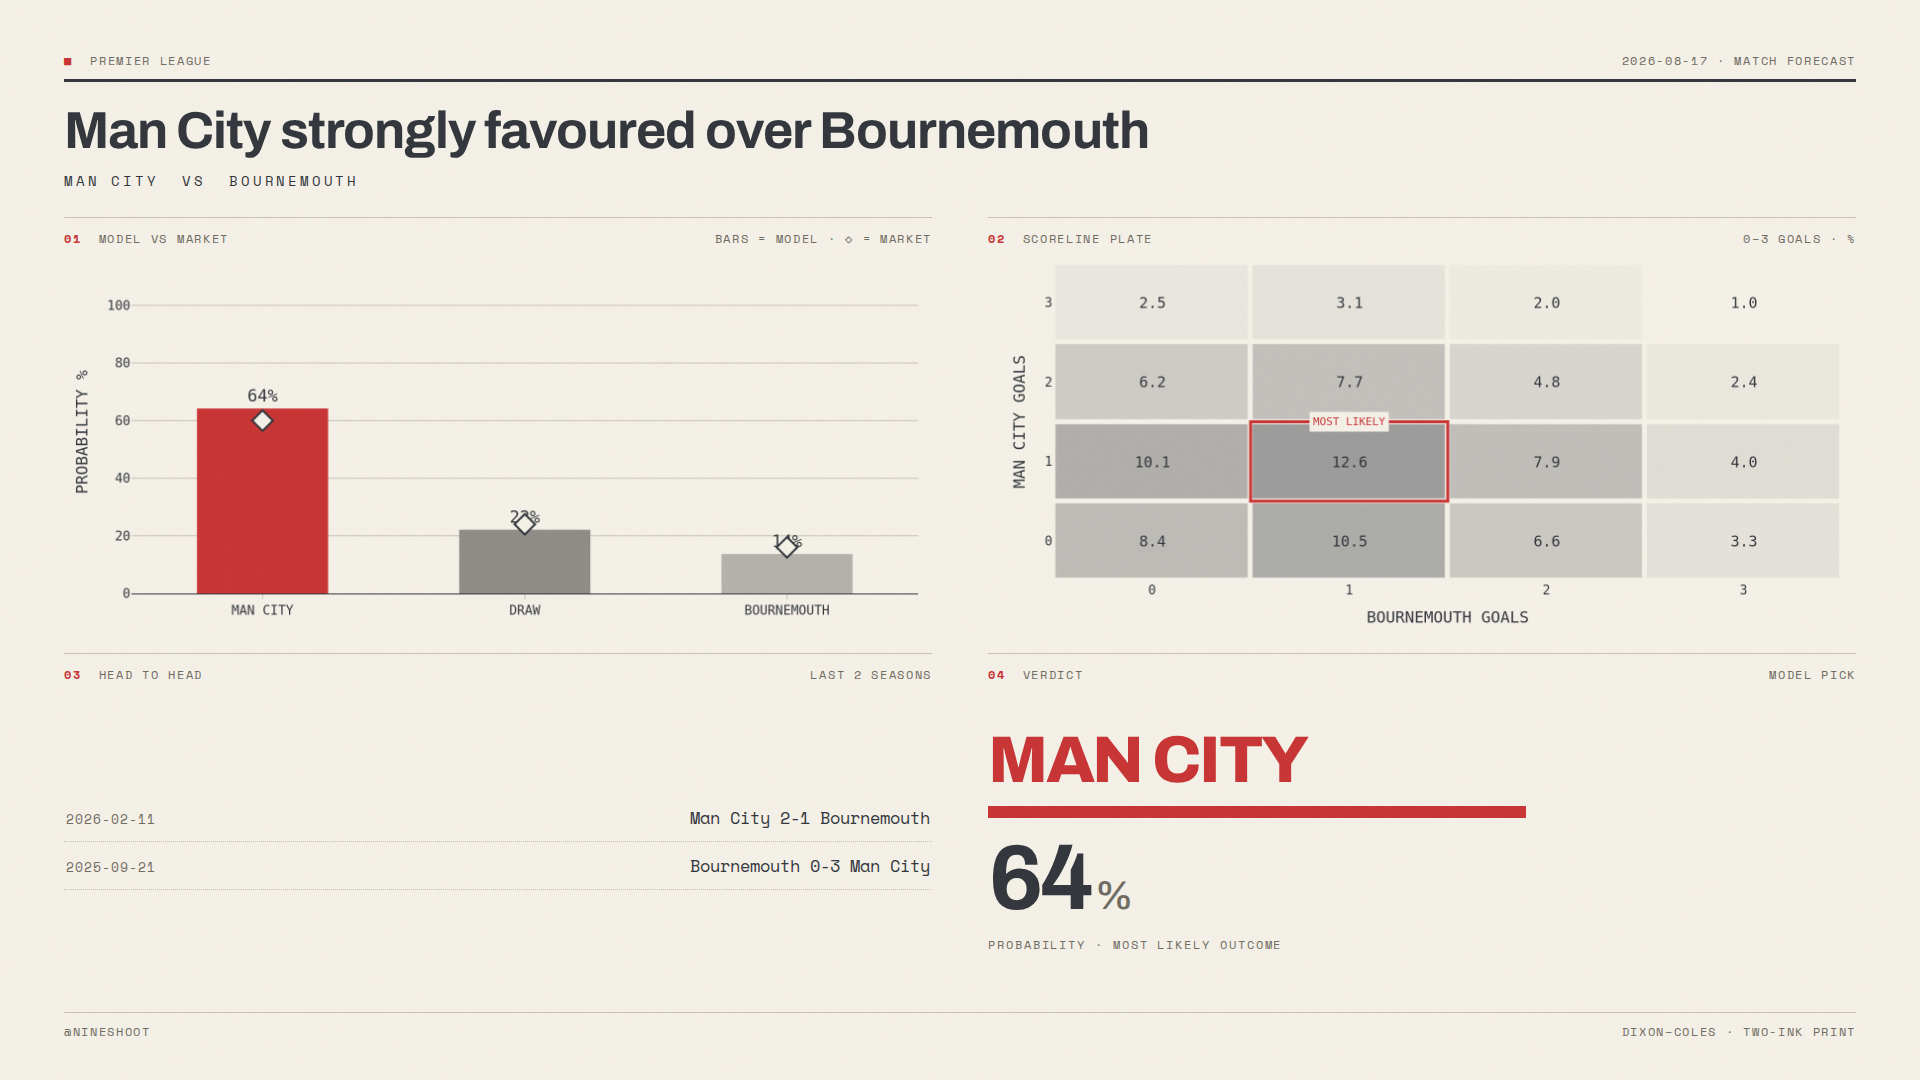
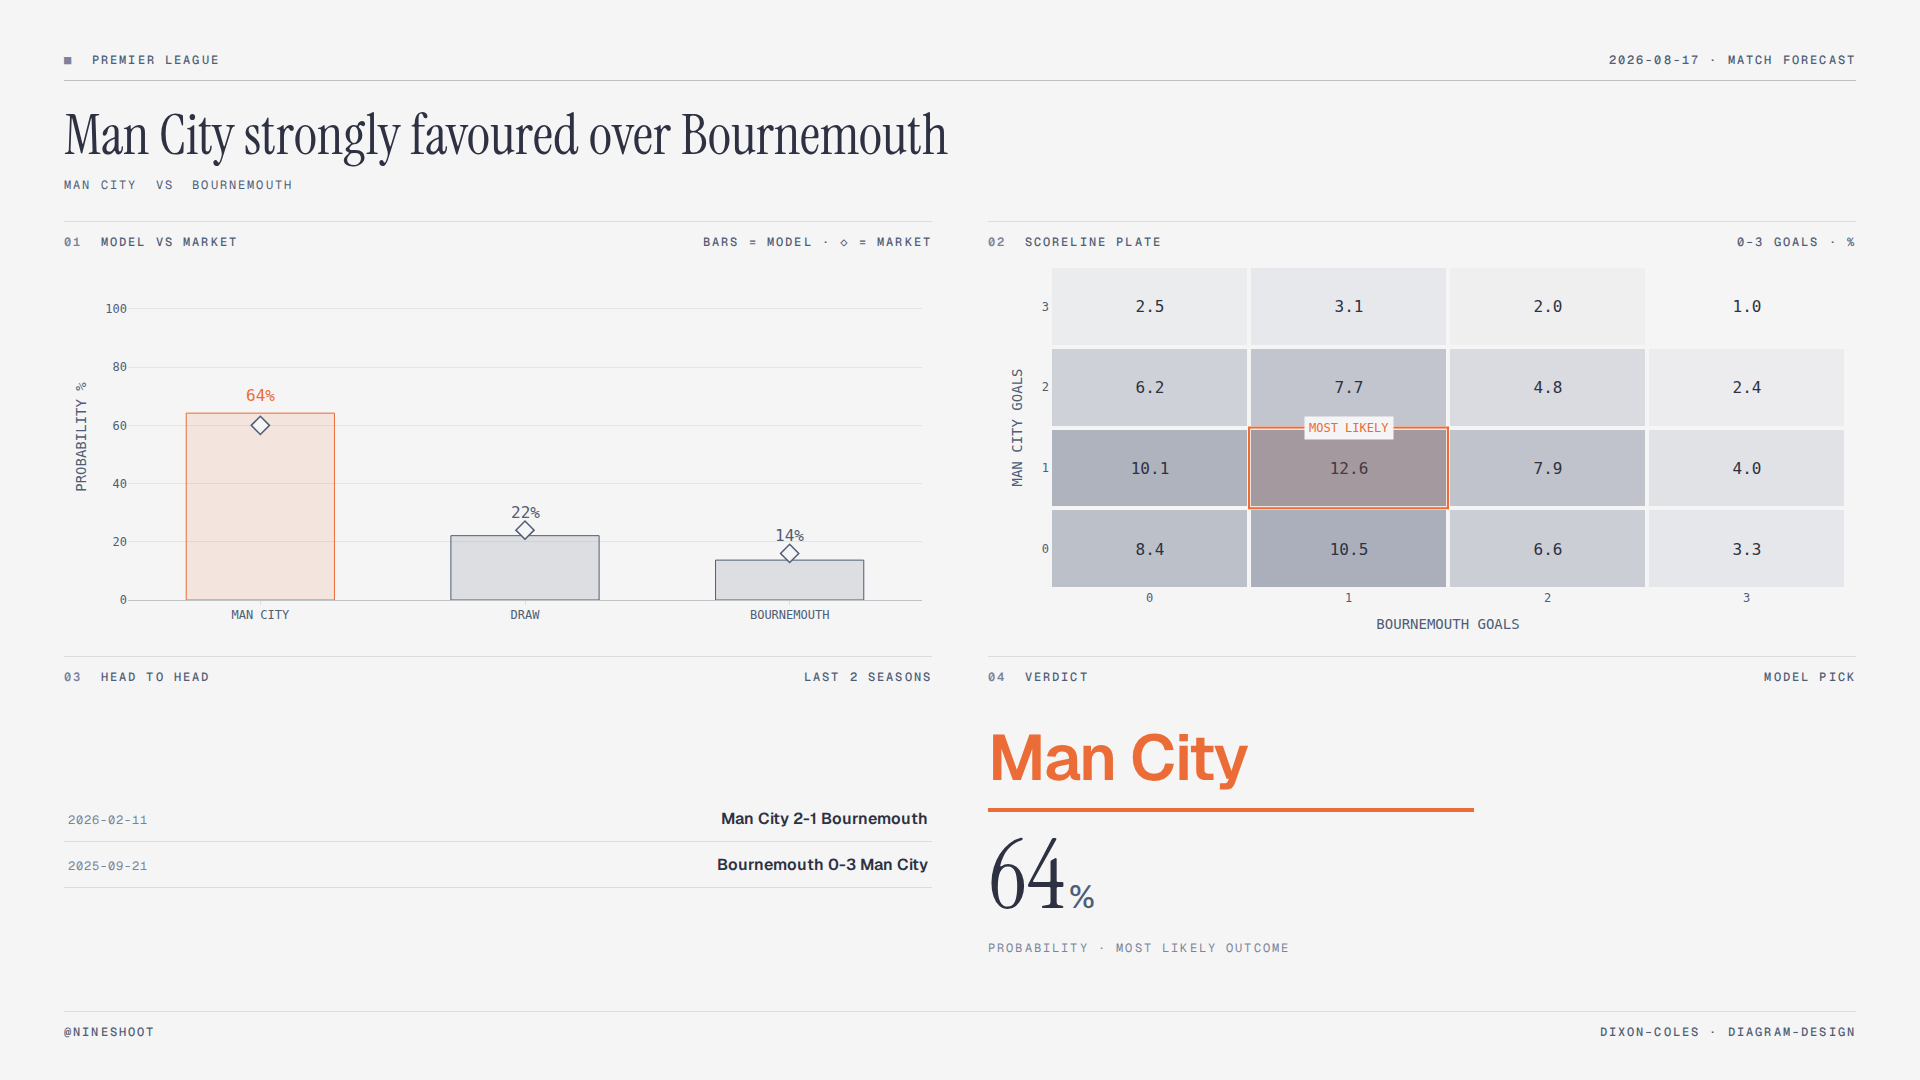
README: regenerate previews for the diagram-design skin
The preview images still showed the mono-color print skin, which no
longer matches what the code renders. Regenerates both from the current
`python -m src.viz`, and updates the prose, the pipeline diagram, and the
file tree to name diagram-design and the in-page plotly.js render path.

The new files are also 24x and 38x smaller (2.24MB -> 92KB, 2.19MB ->
58KB). The old skin's paper-grain overlay was random noise across all two
million pixels, which is exactly what PNG cannot compress; the skill's
default is clean paper. The same applies to every sheet CI commits each
week - roughly 61MB a week becomes 2.5MB.

diff --git a/README.md b/README.md
@@ -13,16 +13,15 @@ Built on [`penaltyblog`](https://github.com/martineastwood/penaltyblog)
 
 ## Preview
 
-Every fixture gets one printed sheet — model vs market, scoreline plate,
-head-to-head, and the verdict as the focal event. Two inks only (charcoal +
-signal red), pale-beige paper, hairline rules — the
-[`mono-color`](https://github.com/yanliudesign/mono-color-skill) editorial
-print system applied to a data sheet.
+Every fixture gets one sheet — model vs market, scoreline plate,
+head-to-head, and the verdict. White-smoke paper, jet-black ink, one
+atomic-tangerine accent per block, hairline rules — the
+[`diagram-design`](https://github.com/cathrynlavery/diagram-design) editorial
+system applied to a data sheet.
 
 ![Match forecast sheet](docs/sheet-match.png)
 
-The same two-ink system carries over to the aggregate sheets — hit rate,
-calibration:
+The same system carries the aggregate sheets — hit rate, calibration:
 
 ![Hit-rate scoreboard sheet](docs/sheet-scoreboard.png)
 
@@ -37,6 +36,7 @@ calibration:
 |**`predictions_log.csv` written *before* kickoff**|The one file that makes the whole thing trustworthy: no hindsight, real calibration.|
 |**GitHub Actions cron = the "automation"**|No Dataiku, no server, no bill. The green run-history *is* the automation.|
 |**Static PNGs (Plotly + Playwright)**|Drop straight into a video-editing pipeline — no dashboard to host, no server to run.|
+|**Charts drawn in the page, not by kaleido**|kaleido 0.2.x shares one subprocess across exports; when it wedges, every later export blocks forever (a CI run sat 25 minutes on one step). Playwright's Chromium is already open for the screenshot, so plotly.js draws the charts there — one browser, one less dependency.|
 |**Retry-with-backoff on every fetch**|football-data.co.uk occasionally 503s under load. A transient blip shouldn't cost a whole week's predictions.|
 |**openfootball fallback when the site is down**|If retries are exhausted, results *and* fixtures switch to [openfootball/football.json](https://github.com/openfootball/football.json) (CC0, auto-updated daily, served off GitHub). No odds there, which the pipeline already treats as optional — a week without the market overlay beats a week with no predictions.|
 |**Concurrency-locked, rebase-before-push CI**|Two overlapping runs (schedule + manual dispatch) used to race on the final `git push` and fail the job outright.|
@@ -57,8 +57,8 @@ calibration:
                        predict 1X2 / O-U / BTTS    │
                               │                    │
                      ┌────────┴─────────┐          │
-              predictions_log.csv   mono-color sheet ◄─┘  (model vs market,
-                     │                (Plotly + Playwright)  heatmap, H2H, verdict)
+              predictions_log.csv   editorial sheet ◄─┘  (model vs market,
+                     │              (plotly.js + Playwright)  heatmap, H2H, verdict)
              (later) settle results ──► calibration + scoreboard sheets
 ```
 
@@ -75,7 +75,7 @@ arsims-soccer-analysis/
 │   ├── odds.py               # bookmaker odds → fair probabilities
 │   ├── logger.py             # the calibration ledger
 │   ├── stats.py              # win-rate scoreboard stats
-│   ├── viz.py                # mono-color print sheets: match, calibration, scoreboard
+│   ├── viz.py                # diagram-design sheets: match, calibration, scoreboard
 │   └── predict.py            # per-league orchestration + head-to-head lookup
 ├── scripts/
 │   ├── check_fixtures.py     # dev tool: peek at fixtures.csv freshness
